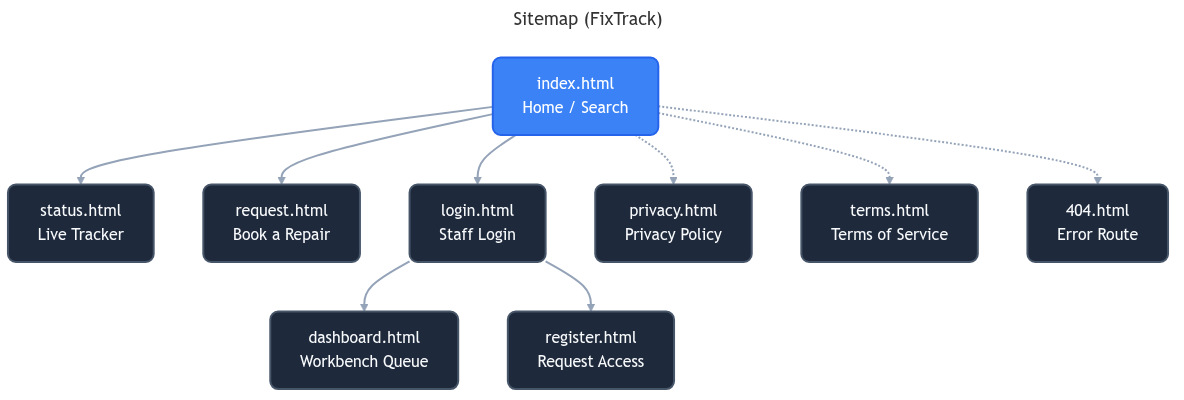
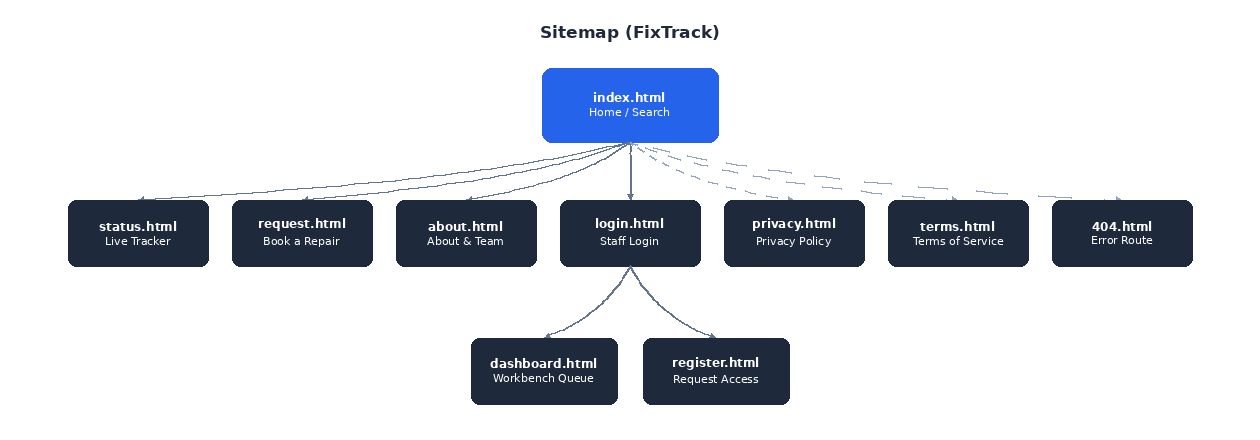
docs: update about features, README, diagrams and homepage technician image

diff --git a/about.html b/about.html
@@ -135,14 +135,14 @@
           <!-- Key Features -->
           <div>
             <h2 class="text-2xl font-bold text-center mb-8">Key Features We Built</h2>
-            <div class="grid gap-6 sm:grid-cols-2 lg:grid-cols-4">
+            <div class="grid gap-6 sm:grid-cols-2 lg:grid-cols-3">
               <div class="panel p-5 space-y-2">
                 <div class="h-8 w-8 rounded-lg bg-accent/15 text-accent grid place-items-center mb-3">
-                  <i data-lucide="shield" class="h-4 w-4"></i>
+                  <i data-lucide="activity" class="h-4 w-4"></i>
                 </div>
-                <h3 class="text-sm font-bold">Random Ticket IDs</h3>
+                <h3 class="text-sm font-bold">Live 6-Stage Repair Tracker</h3>
                 <p class="text-xs text-muted-foreground leading-relaxed">
-                  Instead of using simple numbers like 1001 or 1002 that anyone could guess to peek at other devices, every new booking gets a random ID like <code class="font-mono text-[10px] bg-muted px-1 rounded">FIX-7K9P-4M2W</code>.
+                  Customers can follow their repair through 6 clear milestones from intake to pickup, complete with timestamped technician notes, estimated ready dates, and inspection badges.
                 </p>
               </div>
 
@@ -150,29 +150,49 @@
                 <div class="h-8 w-8 rounded-lg bg-accent/15 text-accent grid place-items-center mb-3">
                   <i data-lucide="printer" class="h-4 w-4"></i>
                 </div>
-                <h3 class="text-sm font-bold">Printable Receipts with QR</h3>
+                <h3 class="text-sm font-bold">Thermal Receipts &amp; Mobile QR</h3>
                 <p class="text-xs text-muted-foreground leading-relaxed">
-                  Customers can print an actual receipt formatted for standard receipt paper. It draws a QR code directly on the receipt that opens the tracking page when scanned with a phone camera.
+                  Generates authentic 58mm/80mm thermal receipts with an embedded QR code that carries ticket state directly, allowing customers to scan and track on their phones without an external database.
                 </p>
               </div>
 
               <div class="panel p-5 space-y-2">
                 <div class="h-8 w-8 rounded-lg bg-accent/15 text-accent grid place-items-center mb-3">
-                  <i data-lucide="sparkles" class="h-4 w-4"></i>
+                  <i data-lucide="wrench" class="h-4 w-4"></i>
                 </div>
-                <h3 class="text-sm font-bold">Realistic S/N Generator</h3>
+                <h3 class="text-sm font-bold">Staff Workbench Console</h3>
                 <p class="text-xs text-muted-foreground leading-relaxed">
-                  For technicians logging incoming devices in the dashboard, the S/N generator creates realistic 10-character serial numbers modeled after Apple serials (leaving out confusing letters like I and O).
+                  A dedicated management dashboard where technicians can search and filter active tickets, update repair stages, assign lead technicians, and add diagnostic logs.
                 </p>
               </div>
 
               <div class="panel p-5 space-y-2">
                 <div class="h-8 w-8 rounded-lg bg-accent/15 text-accent grid place-items-center mb-3">
-                  <i data-lucide="activity" class="h-4 w-4"></i>
+                  <i data-lucide="receipt" class="h-4 w-4"></i>
                 </div>
-                <h3 class="text-sm font-bold">6-Step Repair Tracker</h3>
+                <h3 class="text-sm font-bold">Itemized Billing Breakdown</h3>
                 <p class="text-xs text-muted-foreground leading-relaxed">
-                  Customers can follow their device through 6 clear stages: Device Received, Diagnostic, Awaiting Parts, Active Repair, Ready for Pickup, and Completed.
+                  Transparent line-item accounting for diagnostic fees, replacement parts, and bench labor, with automated VAT calculation and parts warranty coverage.
+                </p>
+              </div>
+
+              <div class="panel p-5 space-y-2">
+                <div class="h-8 w-8 rounded-lg bg-accent/15 text-accent grid place-items-center mb-3">
+                  <i data-lucide="shield-check" class="h-4 w-4"></i>
+                </div>
+                <h3 class="text-sm font-bold">Secure Unguessable Ticket IDs</h3>
+                <p class="text-xs text-muted-foreground leading-relaxed">
+                  Every intake generates a high-entropy, non-sequential tracking ID (e.g. <code class="font-mono text-[10px] bg-muted px-1 rounded">FIX-7K9P-4M2W</code>) with over 656 billion combinations, protecting customer privacy.
+                </p>
+              </div>
+
+              <div class="panel p-5 space-y-2">
+                <div class="h-8 w-8 rounded-lg bg-accent/15 text-accent grid place-items-center mb-3">
+                  <i data-lucide="sliders" class="h-4 w-4"></i>
+                </div>
+                <h3 class="text-sm font-bold">1-File White-Label Rebranding</h3>
+                <p class="text-xs text-muted-foreground leading-relaxed">
+                  Any repair shop can rebrand the entire platform in minutes by editing a single configuration file (<code class="font-mono text-[10px] bg-muted px-1 rounded">config.js</code>) for shop info, pricing, VAT, and supported devices.
                 </p>
               </div>
             </div>

diff --git a/index.html b/index.html
@@ -190,7 +190,7 @@
             </div>
 
             <div class="panel relative overflow-hidden p-3 transition-all duration-200 hover:-translate-y-1 hover:shadow-md">
-              <img src="https://images.unsplash.com/photo-1597762143003-2415170d10b7?auto=format&fit=crop&w=800&q=80" alt="Technician repairing mobile phone" class="aspect-4/3 w-full rounded-lg object-cover bg-muted" />
+              <img src="images/technician-repair.jpg" alt="Technician repairing mobile phone" class="aspect-4/3 w-full rounded-lg object-cover bg-muted" />
               <div class="panel mt-3 flex items-center gap-3 p-3">
                 <div class="flex -space-x-2">
                   <img src="https://images.unsplash.com/photo-1534528741775-53994a69daeb?auto=format&fit=crop&w=80&q=80" alt="Alex" class="h-7 w-7 rounded-full object-cover border border-border" />

diff --git a/README.md b/README.md
@@ -1,18 +1,22 @@
 # FixTrack - White-Label Repair Tracking
 
-FixTrack is a front-end web application that works like Shopify, but for gadget repair shops. It gives repair shops a ready-made website where their customers can book repairs and track their devices step-by-step. Shop staff get a built-in dashboard to manage these repair tickets.
+FixTrack is a modern, front-end web application that works like Shopify, but for gadget repair shops. It gives repair shops a turnkey website where customers can book repairs, receive authentic printable receipts, and track their device's repair progress step-by-step in real time. Shop staff and technicians get a built-in workbench dashboard to manage active repair queues.
 
-This project was built as an academic case study for IT-WS02. The current demo is configured for a fictional shop called "Demo Repair Shop".
+This project was built as an academic case study for IT-WS02. The current deployment is configured for a fictional shop called "Demo Repair Shop" based in Cabanatuan City.
 
-## Features & Configuration
+## Key Features
 
-* **Easy Rebranding (`config.js`):** You can change the shop's name, contact info, supported devices, and tax rates just by editing the `config.js` file. The whole site reads from this file and updates automatically.
-* **Real-Time Tracking & Booking:** Customers can submit repair requests online and check their repair status using a ticket ID (try demo ticket `FIX-7K9P-4M2W`).
-* **Staff Workbench & Ticket Management:** A workbench console allowing staff to assign lead technicians, specify estimated turnaround times, manage device serial numbers (with random demo generator), and customize line-item cost breakdowns (parts and labor) that sync live with the customer invoice.
-* **Local Data Storage:** All ticket data is saved locally in your browser's `localStorage`. You can easily reset the demo data back to its original state using the button inside the dashboard.
-* **Simulated Authentication:** The login system is simulated using `sessionStorage` and is **not secure**. Passwords are saved in plain text in `config.js` for demo purposes.
+* **Live 6-Stage Repair Tracker:** Customers can monitor their device progress across 6 canonical milestones: Device Received, Diagnostic, Awaiting Parts, Active Repair, Quality Check, and Ready for Pickup, complete with timestamped technician notes, inspection badges, and estimated completion dates.
+* **Self-Contained Mobile QR Tracking:** Encodes ticket state directly into compact URL parameters so customers can scan the QR code with any mobile camera and track their device without needing a centralized external database.
+* **Authentic Thermal Receipts:** Printable receipt slip formatted specifically for 58mm and 80mm thermal receipt printers, featuring monospace layout, dashed tear dividers, itemized billing, and an inline scannable QR code.
+* **Secure Unguessable Ticket IDs:** Generates cryptographically randomized, non-sequential tracking codes (e.g. `FIX-7K9P-4M2W`) across 656 billion combinations, completely preventing ticket enumeration and protecting customer privacy.
+* **Staff Workbench Console:** Dedicated technician workspace allowing staff to filter tickets by status, assign lead technicians, specify turnaround estimates, manage device serial numbers, log timestamped diagnostic updates, and customize line-item cost breakdowns.
+* **Itemized Billing Breakdown:** Transparent accounting separating diagnostic fees, replacement parts, and bench labor, complete with automated VAT calculation and parts warranty coverage.
+* **1-File White-Label Rebranding (`config.js`):** Easily rebrand the entire website in minutes by modifying `config.js`. Store name, tagline, contact details, operating hours, VAT rates, warranty duration, supported device brands, and team members update site-wide automatically.
+* **Zero-Backend Architecture:** Runs entirely in modern browsers using `localStorage` for data persistence, ensuring high performance, zero server maintenance costs, and sub-200ms page load speeds.
+* **Responsive Dark/Light Theme:** Built-in theme switcher with automatic system preference detection and persistent preference storage.
 
-## Demo Logins
+## Demo Accounts
 
 All demo accounts share the password: `demo`
 
@@ -30,31 +34,38 @@ All demo accounts share the password: `demo`
 
 ## Tech Stack
 
-* **HTML5:** Clean and properly structured page layouts.
-* **CSS3 / Tailwind CSS (v4):** Styled using the Tailwind browser CDN for quick styling, responsive mobile layouts, and dark mode support.
-* **Vanilla JavaScript:** Handles all the page logic, form validation, theme switching, and local data storage without needing a backend.
+* **HTML5:** Semantic document structuring with accessible ARIA labeling.
+* **CSS3 / Tailwind CSS (v4):** Styled using Tailwind CSS v4 browser runtime with custom print stylesheets for authentic thermal receipts.
+* **Vanilla JavaScript (ES6+):** Complete client-side reactive store, URL-based state encoding, and DOM manipulation without heavy frameworks.
+* **QRCode.js:** Client-side vector canvas engine with modern mobile Android and thermal print compatibility.
+* **Lucide Icons:** Clean, consistent SVG icon set.
 
 ## Project Structure
 
 ```text
 fixtrack-web/
-├── images/           # Device imagery assets
-│   └── devices/
-├── index.html        # Main landing page with ticket search
-├── request.html      # Form for customers to book a repair
-├── status.html       # Live repair tracker and cost breakdown
-├── dashboard.html    # Staff control panel to manage active repairs
-├── login.html        # Staff login page
-├── register.html     # Staff account request page
-├── privacy.html      # Privacy policy
-├── terms.html        # Terms of service
-├── 404.html          # Custom error page
-├── config.js         # Master settings for shop name, branding, and demo data
-├── script.js         # Main logic for data saving, auth, and interactivity
-├── styles.css        # Custom CSS and print styles
-├── favicon.svg       # SVG Wrench Favicon
-├── banner.png        # OpenGraph fallback banner
-└── LICENSE           # Project License
+├── images/                   # Visual assets & diagrams
+│   ├── devices/              # Sample device photos
+│   ├── sitemap.png           # Architecture & routing hierarchy diagram
+│   ├── wireframe.png         # Landing page wireframe layout
+│   └── technician-repair.jpg # Stock hero repair asset
+├── index.html                # Main landing page with ticket search & FAQs
+├── request.html              # Customer repair booking intake form & success modal
+├── status.html               # Live multi-stage tracker & printable receipt
+├── dashboard.html            # Staff workbench console & ticket manager
+├── about.html                # About FixTrack & development team roster
+├── login.html                # Staff authentication portal
+├── register.html             # Staff account access request form
+├── privacy.html              # Customer privacy policy
+├── terms.html                # Terms of service
+├── 404.html                  # Custom error route
+├── config.js                 # Master configuration, branding, pricing & seed data
+├── qrcode.min.js             # Standalone QR code rendering library
+├── script.js                 # Core application logic, data store & event handlers
+├── styles.css                # Custom theme variables, animations & print stylesheet
+├── favicon.svg               # SVG Wrench Favicon
+├── banner.png                # OpenGraph fallback social banner
+└── LICENSE                   # MIT License
 ```
 
 ## Project Planning
